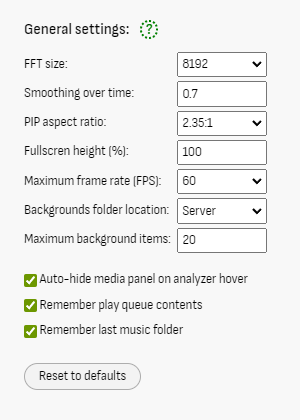
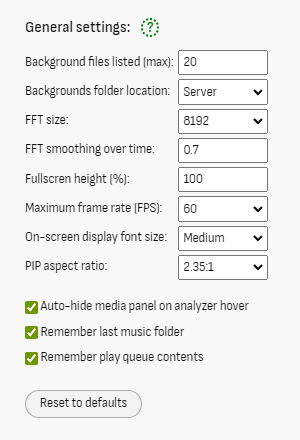
Sort "General Settings" options alphabetically & update docs.

Changed region(s): [[0.06, 0.0929, 0.9, 0.8357], [0.06, 0.8667, 0.48, 0.9595], [0.06, 0.031, 0.54, 0.0929]]

diff --git a/public/index.html b/public/index.html
@@ -496,14 +496,17 @@
 				<h3 class="colspan-2">General settings:
 					<a class="link-to-docs" href="https://audiomotion.app/docs/#/users-manual?id=general-settings" target="_blank"></a>
 				</h3>
+				<p>Background files listed (max):</p>
+				<input id="bg_max_items" type="number">
+
+				<p>Backgrounds folder location:</p>
+				<select id="bg_location"></select>
+
 				<p>FFT size:</p>
 				<select id="fft_size"></select>
 
-				<p>Smoothing over time:</p>
+				<p>FFT smoothing over time:</p>
 				<input id="smoothing" type="number">
-
-				<p>PIP aspect ratio:</p>
-				<select id="pip_ratio"></select>
 
 				<p>Fullscren height (%):</p>
 				<input id="fs_height" type="number">
@@ -511,19 +514,16 @@
 				<p>Maximum frame rate (FPS):</p>
 				<select id="max_fps"></select>
 
-				<p>Backgrounds folder location:</p>
-				<select id="bg_location"></select>
-
-				<p>Maximum background items:</p>
-				<input id="bg_max_items" type="number">
-
 				<p>On-screen display font size:</p>
 				<select id="osd_font_size"></select>
 
+				<p>PIP aspect ratio:</p>
+				<select id="pip_ratio"></select>
+
 				<p></p>
 				<p class="colspan-2"><label><input type="checkbox" id="auto_hide"> Auto-hide media panel on analyzer hover</label></p>
-				<p class="colspan-2"><label><input type="checkbox" id="save_queue"> Remember play queue contents</label></p>
 				<p class="colspan-2"><label><input type="checkbox" id="save_dir"> Remember last music folder</label></p>
+				<p class="colspan-2"><label><input type="checkbox" id="save_queue"> Remember play queue contents</label></p>
 
 				<p class="colspan-2"><br><button id="reset_general">Reset to defaults</button></p>
 			</div>

diff --git a/docs/users-manual.md b/docs/users-manual.md
@@ -422,38 +422,40 @@ So if you want to randomize only among your custom presets, uncheck everything e
 
 ![config-general-settings](img/config-general-settings.png)
 
-**FFT Size** is the number of samples used for the [Fast Fourier Transform](https://en.wikipedia.org/wiki/Fast_Fourier_transform) performed by the analyzer.
+**Background files listed (max)** controls the maximum number of media files that can be directly selected in the [Background](#background) setting.
+
+**Backgrounds folder location** selects the source for images and videos that can be used as [Background](#background) options, or disables external background media.
+
+Only files found in the selected folder will be loaded - subfolders are ignored.<br>
+Loading backgrounds from the local device requires support for the *File System Access API*, which is [currently only available on Chromium-based browsers](known-issues.md).
+
+**FFT size** is the number of samples used for the [Fast Fourier Transform](https://en.wikipedia.org/wiki/Fast_Fourier_transform) performed by the analyzer.
 
 Higher values provide greater detail in the frequency domain (especially for low frequencies), but less detail in the time domain (slower response to changes).
 The default value of **8192** usually provides the best cost/benefit ratio for both domains.
 
-**Smoothing over time** is the averaging factor used to smooth FFT data between analysis frames.
+**FFT smoothing over time** is the averaging factor used to smooth FFT data between analysis frames.
 
 Lower values make the analyzer react faster to changes, and may look better with faster tempo songs and/or larger FFT sizes.
 Increase it if the analyzer animation looks too "jumpy".
 
-**PIP window aspect ratio** selects the aspect ratio of the Picture-In-Picture window.
-After entering PIP, the window can be resized and the selected aspect ratio will be preserved.
-
-**Fullscreen Height** adjusts the height of the analyzer when in fullscreen. This can be used to provide a wider look to the analyzer.
+**Fullscreen height (%)** adjusts the height of the analyzer when in fullscreen. This can be used to provide a wider look to the analyzer.
 
 You can also use the **Shift** + **Up** and **Down** arrows to adjust the analyzer height during fullscreen visualization.
 
 **Maximum frame rate (FPS)** controls the maximum animation frame rate, in frames per second.
 'Unlimited' will try to match your monitor's refresh rate, but may increase CPU usage.
 
-**Backgrounds folder location** selects the source for images and videos that can be used as [Background](#background) options, or disable external background media.
+**On-screen display font size** controls the font size used for information displayed on canvas.
 
-Only files found in the selected folder will be loaded - subfolders are ignored.<br>
-Loading backgrounds from the local device requires support for the *File System Access API*, which is [currently only available on Chromium-based browsers](known-issues.md).
-
-**Maximum background items** controls the maximum number of media files that can be directly selected in the [Background](#background) setting.
+**PIP window aspect ratio** selects the aspect ratio of the Picture-In-Picture window.
+After entering PIP, the window can be resized and the selected aspect ratio will be preserved.
 
 **Auto-hide media panel on analyzer hover** automatically hides the media panel (file explorer and play queue) when you move the mouse cursor over the analyzer.
 
-**Remember play queue contents** automatically restores the contents of the play queue the next time you open audioMotion.
-
 **Remember last music folder** makes the file explorer open in the last previously used folder after starting audioMotion.
+
+**Remember play queue contents** automatically restores the contents of the play queue the next time you open audioMotion.
 
 The **Reset to defaults** button will reset all settings above to their default values.
 

diff --git a/docs/README.md b/docs/README.md
@@ -25,10 +25,10 @@
 
 Click the button below to open the web app:
 
-<a href="https://audiomotion.app" target="_blank"><img src="https://img.shields.io/badge/audioMotion.app-ff3e37?style=flat&logoColor=white&logo=Soundcharts" height="48"></a>
+<a href="https://audiomotion.app" target="_blank"><img src="https://img.shields.io/badge/audioMotion.app-ff3e37?style=flat" height="48"></a>
 
 **Use a Chromium-based browser to be able to play media files from your hard drive.**<br>
-Works on Chrome, Opera and Edge by default. On Brave you'll need to enable it in `chrome://flags/#file-system-access-api`.
+Works on Chrome, Opera and Edge by default. On Brave you'll need to enable this feature in `chrome://flags/#file-system-access-api`.
 
 If you don't have any music files at hand, the app also includes a few songs and some online radio streams.<br>
 Click the [**Switch to Server**](users-manual.md#media-panel) button to browse server-hosted content.
@@ -43,7 +43,7 @@ Also check out our [**YouTube channel**](https://youtube.com/@audioMotionJS) for
 
 I would like to thank:
 
-My wife **Virginia**, for her never-ending love and support! 💞
+My wife **Virginia**, for the endless love and support! 💞
 
 [Yuji Koike](http://ykcircus.com), for his great [Soniq Viewer for iOS](https://itunes.apple.com/us/app/soniq-viewer/id448343005), which inspired me to create **audioMotion.**
 

diff --git a/docs/server.md b/docs/server.md
@@ -37,7 +37,7 @@ The following URL parameters can also be used when accessing audioMotion:
 | parameter | possible values | description |
 |-----------|-----------------|-------------|
 | **mode**  | `local` \| `server` | Starts audioMotion in the desired access mode (local access must be enabled on the server)
-| **mediaPanel** | `open` \| `close` | Same as the corresponding `config.json` option, but overrides the configuration on server
+| **mediaPanel** | `open` \| `close` | Same as the corresponding `config.json` option, but overrides the server configuration
 
 Use an **&** character to separate multiple parameters. Example usage:
 
